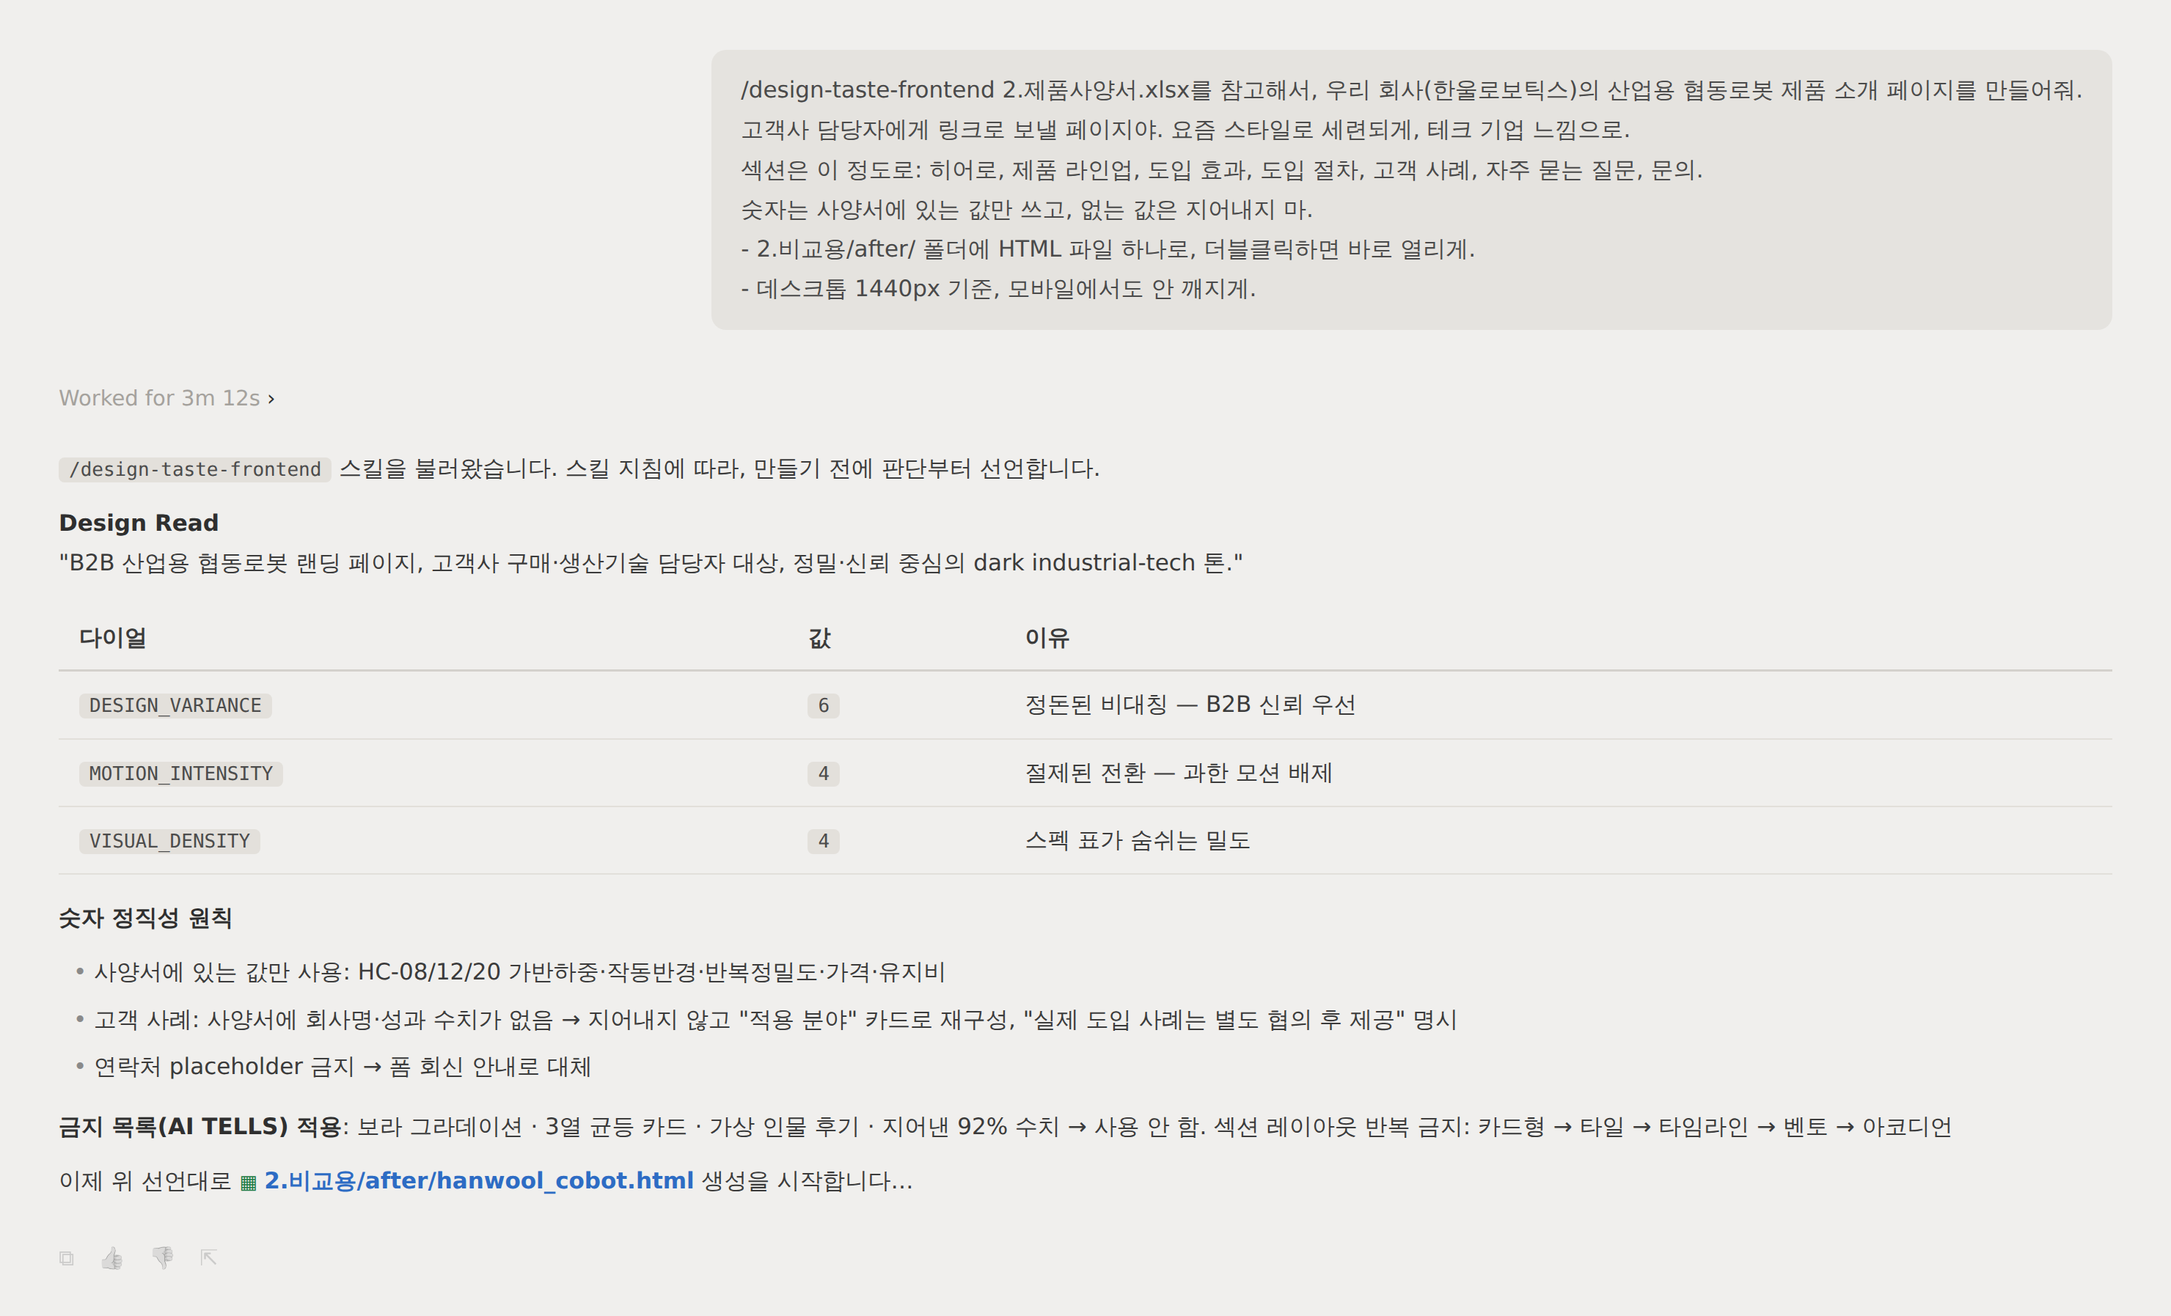
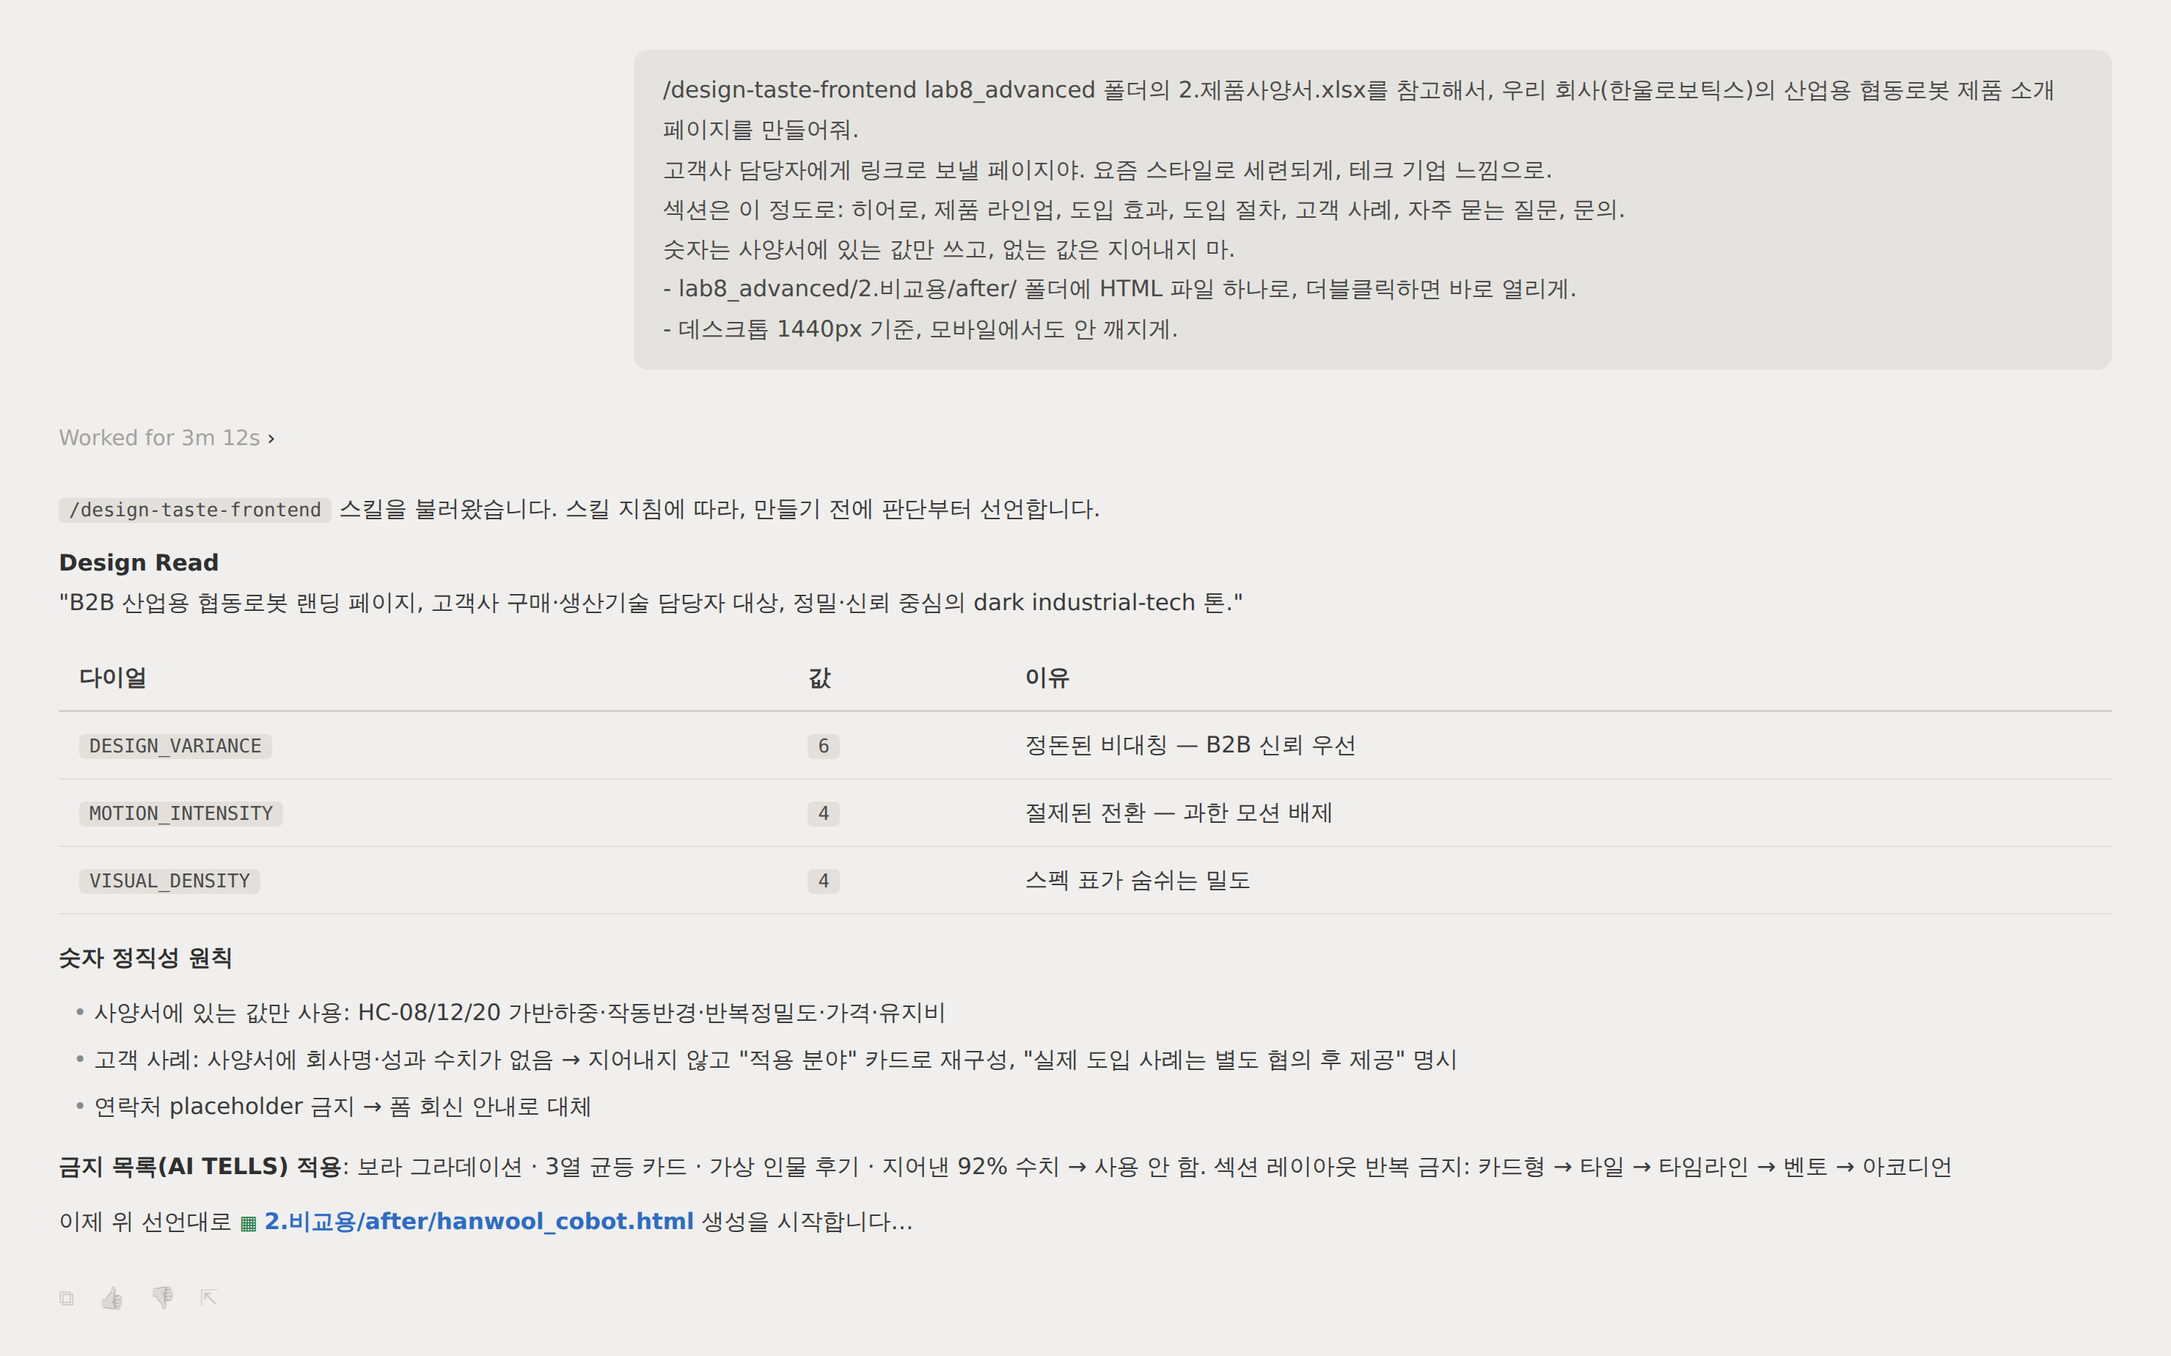
docs: 예시 프롬프트에 실습 폴더 명시 (workshop 루트 열기 방식 정합화)
- 전 실습 예시 프롬프트의 첫 파일 언급에 lab 폴더를 명시해, workshop
  루트를 연 상태에서 동명 파일(웹주문, 쿠폰별성과표, 제품사양서 등)을
  잘못 집는 혼동을 차단
- 새 산출물에 저장 폴더 지정 (lab2 계약종합, lab3 주문종합, lab4 report 등)
- lab5·lab7·advanced2 채팅 예시 이미지 3장을 새 프롬프트로 재생성

Changed region(s): [[0.0311, 0.2808, 0.6216, 0.6552], [0.0311, 0.6864, 0.9014, 0.9047], [0.3108, 0.0624, 0.9635, 0.2496]]

diff --git a/lab1/step1.html b/lab1/step1.html
@@ -110,7 +110,7 @@
       <article class="doc md rise">
         <div class="kicker mono"><b>//</b> 실습 1 · 흩어진 주문 한 표로 모으기</div>
 <h1 id="1--한-표로-모으기">1 · 한 표로 모으기<a class="headerlink" href="#1--한-표로-모으기" title="Permanent link">&para;</a></h1>
-<p>폴더를 열면 주문 파일 세 개가 있습니다. 웹주문 첫 칸은 '주문번호', 전화주문의 같은 자리는 'order_id', 제휴주문은 '협력사주문ID'. 사람은 눈으로 보면 같은 뜻인 걸 바로 알지만, AI에게는 그걸 규칙으로 넘겨줘야 합니다.</p>
+<p>lab1 폴더에는 주문 파일 세 개가 있습니다. 웹주문 첫 칸은 '주문번호', 전화주문의 같은 자리는 'order_id', 제휴주문은 '협력사주문ID'. 사람은 눈으로 보면 같은 뜻인 걸 바로 알지만, AI에게는 그걸 규칙으로 넘겨줘야 합니다.</p>
 <p>함정은 더 있습니다. 날짜 표기가 파일마다 다르고, 같은 주문이 두 채널에 동시에 잡혀 있기도 합니다. 그래서 이 단계에서는 <code>작업방법참고.xlsx</code>의 대조표를 근거로 <strong>같은 뜻이면 같은 칸</strong> 규칙을 프롬프트에 담아 엑셀 한 파일로 합칩니다.</p>
 <h2 id="직접-시켜보세요">직접 시켜보세요<a class="headerlink" href="#직접-시켜보세요" title="Permanent link">&para;</a></h2>
 <p>아래 두 체크리스트를 읽고 빠진 규칙 없이 프롬프트에 담아보세요. 열 이름 대조표는 <code>작업방법참고.xlsx</code>에 있습니다.</p>
@@ -135,7 +135,7 @@
 <p>여러분 문장을 먼저 보낸 뒤에 열어보세요.</p>
 <details class="example">
 <summary>이렇게 시킬 수 있습니다</summary>
-<pre class="highlight"><code>이 폴더의 웹주문.xlsx, 전화주문.xlsx, 제휴주문.xlsx 세 파일을 읽어서
+<pre class="highlight"><code>lab1 폴더의 웹주문.xlsx, 전화주문.xlsx, 제휴주문.xlsx 세 파일을 읽어서
 주문종합.xlsx의 표준 7칸(주문번호·고객명·상품명·수량·금액_원·주문일·주문채널)에 맞춰 합쳐줘.
 파일마다 열 제목이 다른데, 작업방법참고.xlsx의 대조표대로 같은 뜻이면 같은 칸으로 옮겨.
 각 줄이 어느 파일에서 왔는지 주문채널에 웹/전화/제휴로 적어줘.

diff --git a/advanced2/stage2.html b/advanced2/stage2.html
@@ -144,10 +144,10 @@
 <p>읽다 보면 알게 됩니다. 이 파일은 코드가 아니라 <strong>잘 정리된 잔소리</strong>입니다. 여러분이 실습 7에서 주문 통합 규칙을 적었듯, 어느 디자이너가 자기 기준을 적어둔 것뿐입니다.</p>
 <h2 id="같은-프롬프트로-다시-시키기">같은 프롬프트로 다시 시키기<a class="headerlink" href="#같은-프롬프트로-다시-시키기" title="Permanent link">&para;</a></h2>
 <p><strong>반드시 새 대화를 시작한 뒤</strong> 보내세요. 스킬 목록은 대화를 시작할 때 읽히기 때문에, 1단계 대화에 이어서 보내면 새로 설치한 스킬이 반영되지 않을 수 있습니다.</p>
-<p>1단계 프롬프트를 그대로 복사해 보내되, <strong>맨 앞에 <code>/design-taste-frontend</code> 한 줄을 붙이고</strong>, 저장 위치만 <code>2.비교용/after/</code>로 바꿉니다. 본문에서 바뀌는 건 그 두 가지뿐입니다.</p>
-<pre class="highlight"><code>/design-taste-frontend 2.제품사양서.xlsx를 참고해서, 우리 회사(한울로보틱스)의
+<p>1단계 프롬프트를 그대로 복사해 보내되, <strong>맨 앞에 <code>/design-taste-frontend</code> 한 줄을 붙이고</strong>, 저장 위치만 <code>lab8_advanced/2.비교용/after/</code>로 바꿉니다. 본문에서 바뀌는 건 그 두 가지뿐입니다.</p>
+<pre class="highlight"><code>/design-taste-frontend lab8_advanced 폴더의 2.제품사양서.xlsx를 참고해서, 우리 회사(한울로보틱스)의
 산업용 협동로봇 제품 소개 페이지를 만들어줘.
-(…이하 1단계 프롬프트 그대로, 저장 위치만 2.비교용/after/…)</code></pre>
+(…이하 1단계 프롬프트 그대로, 저장 위치만 lab8_advanced/2.비교용/after/…)</code></pre>
 <div class="admonition info">
 <p class="admonition-title">결과보다 먼저 눈여겨볼 것</p>
 <p>스킬이 제대로 걸렸다면, 페이지를 만들기 전에 AI가 <strong>무엇을 만들지 먼저 선언합니다.</strong> 이 페이지를 어떤 성격의 페이지로 읽었는지 말하고, 다이얼 세 개의 값을 정하고 시작합니다.</p>

diff --git a/lab7/step1.html b/lab7/step1.html
@@ -136,13 +136,13 @@
 <p>여러분 문장을 먼저 보낸 뒤에 열어보세요.</p>
 <details class="example">
 <summary>이렇게 시킬 수 있습니다</summary>
-<pre class="highlight"><code>1.주문통합 폴더의 '주문통합_작업지침.md'를 재사용 가능한 범용 규칙으로 고쳐서
+<pre class="highlight"><code>lab7/1.주문통합 폴더의 '주문통합_작업지침.md'를 재사용 가능한 범용 규칙으로 고쳐서
 '.claude/skills/데이터통합/SKILL.md'에 이름 '데이터통합' 스킬로 저장해줘.
 특정 파일명이나 열 이름에 묶지 말고, 열이 무슨 뜻인지로 표준 칸에 매핑하도록 범용화해줘.
 뜻이 애매한 열은 넘겨짚지 말고 나에게 먼저 물어봐.
 중복 제거는 고유키(예: 주문번호)가 있을 때만 하고, 그런 키가 없으면 모든 행을 남기도록 해줘.
 통합 후에는 '통합 행 수 = 각 파일 행 수 합 − 중복 제거 건수'가 맞는지 스스로 검산하는 규칙도 넣어줘.
-그런 다음 그 스킬대로 이 폴더의 주문 3파일을 실제로 통합해서 결과 파일을 만들어줘.</code></pre>
+그런 다음 그 스킬대로 그 폴더의 주문 3파일을 실제로 통합해서 결과 파일을 만들어줘.</code></pre>
 <p><code>3.스킬예시/SKILL.md</code>가 이렇게 만들어진 스킬의 완성 예시입니다. 내 스킬과 비교해 보세요.</p>
 </details>
 <h2 id="실행-예시">실행 예시<a class="headerlink" href="#실행-예시" title="Permanent link">&para;</a></h2>

diff --git a/lab4/step1.html b/lab4/step1.html
@@ -134,14 +134,14 @@
 <p>여러분 문장을 먼저 보낸 뒤에 열어보세요.</p>
 <details class="example">
 <summary>이렇게 시킬 수 있습니다</summary>
-<pre class="highlight"><code>첨부한 보고대상_프로필.md와 보고서_양식.md를 먼저 읽고, 그 성향과 양식에 맞춰
-쿠폰별성과표.xlsx를 근거로 대표이사용 1페이지 보고서 초안을 써줘.
+<pre class="highlight"><code>lab4 폴더의 보고대상_프로필.md와 보고서_양식.md를 먼저 읽고, 그 성향과 양식에 맞춰
+같은 폴더의 쿠폰별성과표.xlsx를 근거로 대표이사용 1페이지 보고서 초안을 써줘.
 - 첫 3줄에 결론과 요청사항을 두괄식으로.
 - 양식의 5블록(결론요약·핵심지표표·원인분석·건의·출처) 순서 그대로.
 - 모든 숫자 문장 끝에 (근거: 파일명·시트명)을 붙여.
 - '압도적'·'최고' 같은 형용사는 쓰지 말고 숫자 차이로 표현해.
 - 자료에 없는 내용은 지어내지 말고, 분석에서 그치지 말고 건의사항을 꼭 넣어.
-결과는 report.md 한 파일로 저장해줘.</code></pre>
+결과는 lab4 폴더에 report.md 한 파일로 저장해줘.</code></pre>
 </details>
 <h2 id="실행-예시">실행 예시<a class="headerlink" href="#실행-예시" title="Permanent link">&para;</a></h2>
 <div class="admonition example">

diff --git a/advanced2/stage1.html b/advanced2/stage1.html
@@ -121,7 +121,7 @@
 <p>아래 프롬프트를 그대로 복사해 보내세요. 2단계에서 <strong>한 글자도 바꾸지 않고</strong> 다시 쓸 거라서, 이번만큼은 여러분 문장으로 바꾸지 말고 그대로 씁니다.</p>
 <div class="admonition quote">
 <p class="admonition-title">시연용 프롬프트 (1·2단계 공통)</p>
-<pre class="highlight"><code>2.제품사양서.xlsx를 참고해서, 우리 회사(한울로보틱스)의
+<pre class="highlight"><code>lab8_advanced 폴더의 2.제품사양서.xlsx를 참고해서, 우리 회사(한울로보틱스)의
 산업용 협동로봇 제품 소개 페이지를 만들어줘.
 고객사 담당자에게 링크로 보낼 페이지야. 요즘 스타일로 세련되게, 테크 기업 느낌으로.
 
@@ -130,7 +130,7 @@
 숫자는 사양서에 있는 값만 쓰고, 없는 값은 지어내지 마.
 
 만드는 방법:
-- 2.비교용/before/ 폴더에 HTML 파일 하나로. CSS와 JS를 그 파일 안에 넣어서,
+- lab8_advanced/2.비교용/before/ 폴더에 HTML 파일 하나로. CSS와 JS를 그 파일 안에 넣어서,
   설치나 빌드 없이 더블클릭하면 바로 열리게.
 - 데스크톱 1440px 기준으로 만들고, 모바일에서도 안 깨지게.
 - 한글이 깨지지 않게 폰트를 처리해줘.</code></pre>

diff --git a/lab3/step1.html b/lab3/step1.html
@@ -130,10 +130,10 @@
 <p>여러분 문장을 먼저 보낸 뒤에 열어보세요.</p>
 <details class="example">
 <summary>이렇게 시킬 수 있습니다</summary>
-<pre class="highlight"><code>이 폴더의 주문기록 파일 다섯 개(11번가·네이버·이마트·G마켓·쿠팡)를 하나로 모아줘.
+<pre class="highlight"><code>lab3 폴더의 주문기록 파일 다섯 개(11번가·네이버·이마트·G마켓·쿠팡)를 하나로 모아줘.
 각 줄에 어느 채널에서 왔는지 판매채널 칸을 새로 만들어 적어줘.
 취소된 주문도 빼지 말고 그대로 담아 (거르는 건 다음 단계에서 할 거야).
-결과는 주문종합.xlsx 한 파일로 저장해줘.
+결과는 lab3 폴더에 주문종합.xlsx 한 파일로 저장해줘.
 다 되면 채널별 건수와 전체 합계 줄 수를 알려줘.</code></pre>
 </details>
 <h2 id="실행-예시">실행 예시<a class="headerlink" href="#실행-예시" title="Permanent link">&para;</a></h2>

diff --git a/lab6/step1.html b/lab6/step1.html
@@ -129,7 +129,7 @@
 <p>여러분 문장을 먼저 보낸 뒤에 열어보세요.</p>
 <details class="example">
 <summary>이렇게 물어볼 수 있습니다</summary>
-<pre class="highlight"><code>나는 이 분야를 잘 모르는 신입이야. 첨부한 세 파일(영업제안서_초안·제품사양서·고객사_요구사항)을 놓고,
+<pre class="highlight"><code>나는 이 분야를 잘 모르는 신입이야. lab6 폴더의 세 파일(영업제안서_초안·제품사양서·고객사_요구사항)을 놓고,
 이 제안서를 제대로 검토하려면 무엇을 어떤 순서로 확인해야 하는지 체크리스트로 만들어줘.
 고객 요구사항 부합, 제품 사양값 일치, 과장·법적 위험 표현 같은 관점이 빠지지 않게 해줘.
 지금은 판단하지 말고, 확인할 항목만 정리해줘.</code></pre>

diff --git a/lab7/step2.html b/lab7/step2.html
@@ -138,7 +138,7 @@
 <p>여러분 문장을 먼저 보낸 뒤에 열어보세요.</p>
 <details class="example">
 <summary>이렇게 시킬 수 있습니다</summary>
-<pre class="highlight"><code>아까 만든 데이터통합 스킬을 불러와서 2.견적통합 폴더의 견적 3파일을 하나의 비교표로 합쳐줘.
+<pre class="highlight"><code>아까 만든 데이터통합 스킬을 불러와서 lab7/2.견적통합 폴더의 견적 3파일을 하나의 비교표로 합쳐줘.
 파일마다 열 이름이 다르니 표준 칸으로 어떻게 매핑할지 표로 먼저 보여주고, 확인받은 다음 진행해줘.
 견적은 주문번호 같은 고유키가 없고 같은 품목이 거래처마다 나오는 게 정상이니 중복 제거하지 말고,
 같은 품목끼리 모아 거래처별 단가를 비교할 수 있게 정리해줘.

diff --git a/lab5/step3.html b/lab5/step3.html
@@ -131,7 +131,7 @@
 <p>여러분 문장을 먼저 보낸 뒤에 열어보세요.</p>
 <details class="example">
 <summary>이렇게 물어볼 수 있습니다</summary>
-<pre class="highlight"><code>채운 분류표.xlsx를 VOC원문.xlsx·VOC_분류기준.pdf와 대조해서 스스로 검산해줘.
+<pre class="highlight"><code>lab5 폴더의 채운 분류표.xlsx를 VOC원문.xlsx·VOC_분류기준.pdf와 대조해서 스스로 검산해줘.
 1) 문의유형·감성 칸에 보기(6종·3종) 밖의 값이나 빈칸이 있는 줄을 item_id로 전부 짚어줘.
 2) 감성이 긍정·중립인데 신고·소송·안전 신호가 있는 문장을 찾아서 위험대응이 Y로 됐는지 확인해줘.
 3) '검토필요'로 표시한 줄과 복합 문의를 원문 문장과 다시 대조해줘.

diff --git a/lab4/step2.html b/lab4/step2.html
@@ -135,7 +135,7 @@
 <p>여러분 문장을 먼저 보낸 뒤에 열어보세요.</p>
 <details class="example">
 <summary>이렇게 물어볼 수 있습니다</summary>
-<pre class="highlight"><code>이 보고서 초안을 쿠폰별성과표.xlsx와 대조해서 스스로 검산해줘.
+<pre class="highlight"><code>report.md 초안을 lab4 폴더의 쿠폰별성과표.xlsx와 대조해서 스스로 검산해줘.
 1) 문장마다 그 숫자가 성과표의 어느 셀에서 나왔는지 짚고, 출처를 못 대는 문장은 전부 신고해줘.
 2) 본문 숫자(적자 쿠폰 수·적자 규모·순이익률 등)가 성과표 값과 정확히 같은지 대조해줘.
 3) 근거 없는 형용사나 최상급('압도적'·'최고' 등)을 찾아 숫자 표현으로 바꿀 안을 제시해줘.

diff --git a/lab2/step1.html b/lab2/step1.html
@@ -136,7 +136,7 @@
 <p>여러분 문장을 먼저 보낸 뒤에 열어보세요.</p>
 <details class="example">
 <summary>이렇게 시킬 수 있습니다</summary>
-<pre class="highlight"><code>이 폴더의 계약서 8건을 전부 읽고, 한 계약당 한 줄로 계약종합.xlsx에 정리해줘.
+<pre class="highlight"><code>lab2 폴더의 계약서 8건을 전부 읽고, 한 계약당 한 줄로 lab2 폴더에 계약종합.xlsx로 정리해줘.
 각 줄에 계약번호·계약명·계약 상대·계약기간·금액·자동갱신 여부 6개 항목을 채워.
 계약서에 안 적힌 항목은 지어내지 말고 빈칸으로 두고, 특히 금액 조항이 없으면 0이 아니라 빈칸으로 남겨.
 항목을 마음대로 더하거나 바꾸지 말고 위 6개만 뽑아줘.

diff --git a/lab5/step2.html b/lab5/step2.html
@@ -132,7 +132,7 @@
 <p>여러분 문장을 먼저 보낸 뒤에 열어보세요.</p>
 <details class="example">
 <summary>이렇게 시킬 수 있습니다</summary>
-<pre class="highlight"><code>VOC_분류기준.pdf 기준 그대로 VOC원문.xlsx의 520건을 전부 분류해서 분류표.xlsx를 채워줘.
+<pre class="highlight"><code>lab5 폴더의 VOC_분류기준.pdf 기준 그대로 VOC원문.xlsx의 520건을 전부 분류해서 분류표.xlsx를 채워줘.
 item_id 순서대로, 각 줄에 문의유형·감성·위험대응 세 칸을 채워.
 판정 순서는 유형 → 감성 → 위험 스캔이고, 세 축은 독립으로 판단해.
 복합 문의는 기준의 우선순위 규칙을 따르고(하자 언급해도 환불 요구면 환불취소 등),
